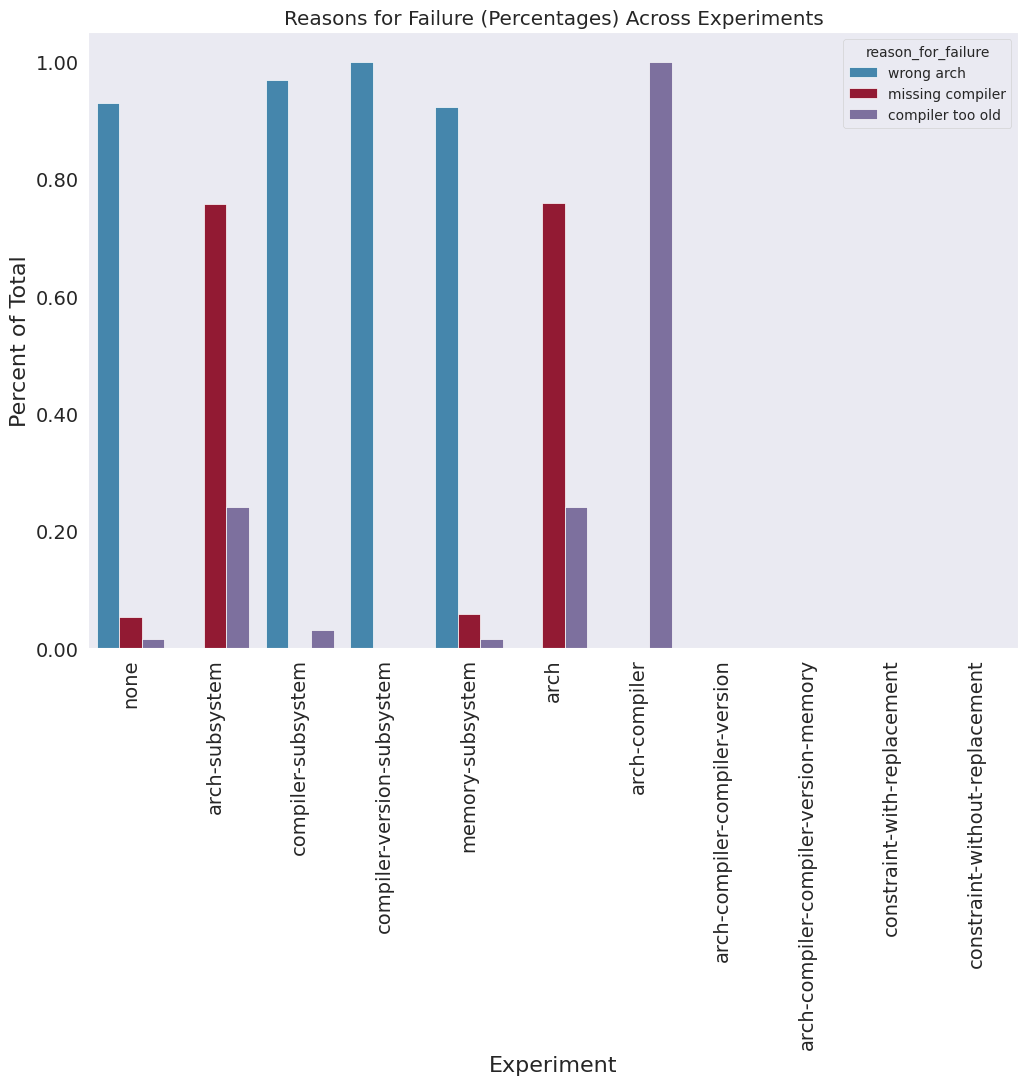
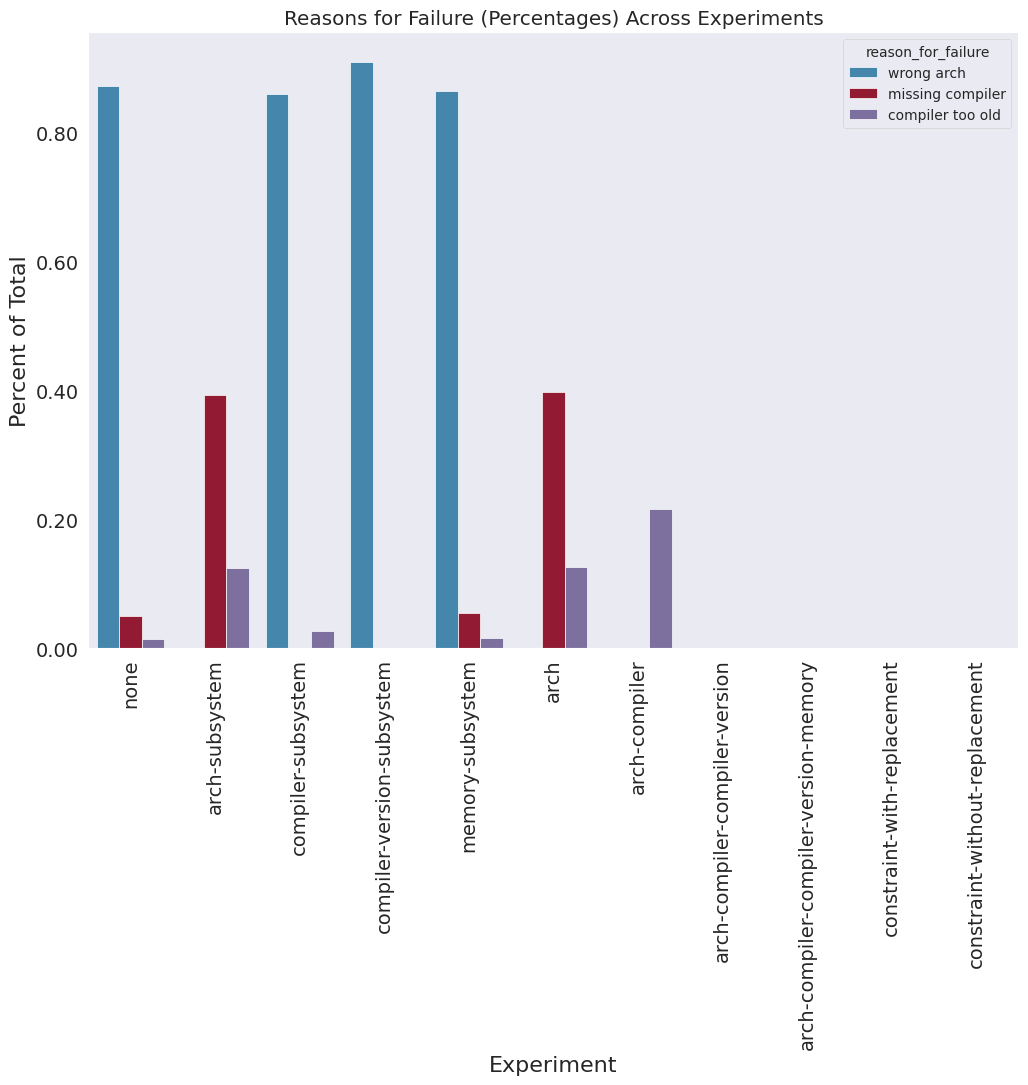
fix: total counts percentage

diff --git a/experiments/simulation-spack-build-0/plot-results.py b/experiments/simulation-spack-build-0/plot-results.py
@@ -146,28 +146,24 @@ def plot_histograms(scores, ideal_costs, outdir):
     plt.clf()
 
     # Plot reasons for failure
-    rdf = pandas.DataFrame(columns=["experiment", "reason_for_failure", "count"])
+    rdf = pandas.DataFrame(
+        columns=["experiment", "reason_for_failure", "count", "total_count"]
+    )
     idx = 0
 
+    import IPython
+
+    IPython.embed()
+    sys.exit()
     for experiment, data in scores.items():
         if experiment == "unmatched_at":
             continue
         reasons = data["reasons_for_failure"]
         for reason, count in reasons.items():
-            rdf.loc[idx] = [experiment, reason, count]
+            rdf.loc[idx] = [experiment, reason, count, data["total_jobs"]["value"]]
             idx += 1
 
-    # Also calculate percentage for each
-    total_counts = {}
-    for experiment in rdf.experiment.unique():
-        total_counts[experiment] = rdf[rdf.experiment == experiment]["count"].sum()
-    rdf.loc[:, "total_count"] = 0
-    for experiment, count in total_counts.items():
-        rdf.loc[rdf.experiment == experiment, "total_count"] = count
     rdf["percentage"] = rdf["count"] / rdf.total_count
-
-    # That makes some nans
-    rdf = rdf.fillna(0)
 
     rdf.to_csv(os.path.join(outdir, "reasons-for-failure.csv"))
 
